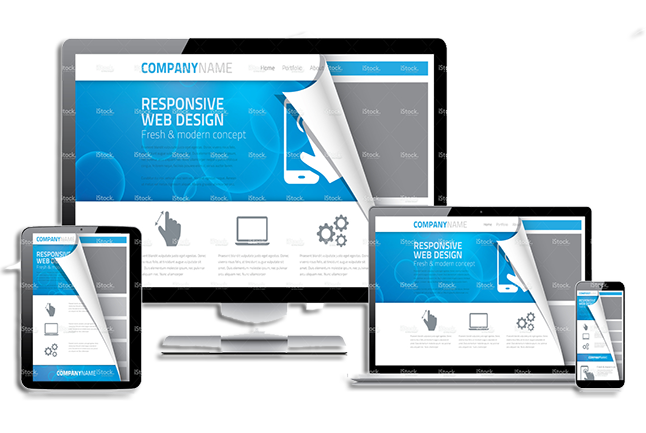
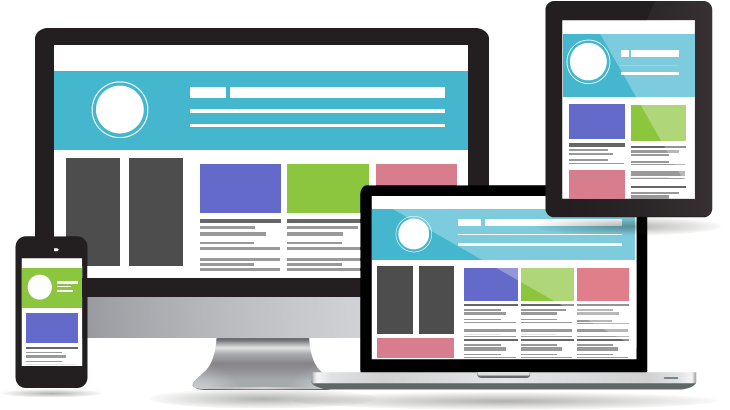
Home css

diff --git a/html/css/main.css b/html/css/main.css
@@ -787,6 +787,9 @@ input#ackapa:checked + nav li {
 .cont-art p strong {
   font-size: 1.2em;
 }
+.cont-art img {
+  padding-top: 15%;
+}
 /*para canvas*/
 .body--ready .overlay {
   -webkit-transition: -webkit-transform 0.7s cubic-bezier(0.694, 0.0482, 0.335, 1), opacity 0.7s cubic-bezier(0.694, 0.0482, 0.335, 1);
@@ -1146,6 +1149,9 @@ button {
   display: inline-block;
   margin-bottom: 4em;
 }
+.cont-buth a {
+  margin-left: 1.7em;
+}
 .bot-p {
   display: inline-block;
   vertical-align: middle;
@@ -1163,7 +1169,6 @@ button {
   cursor: pointer;
   text-decoration: none;
   font-size: 2em;
-  font-weight: 600;
   border-radius: .3em;
   -webkit-tap-highlight-color: rgba(0, 0, 0, 0);
   -webkit-transition: all 0.3s ease-in-out !important;
@@ -1456,7 +1461,6 @@ ul {
   margin-bottom: .8em;
   font-size: 3.5em;
   line-height: 1.1;
-  padding: 0 1em;
 }
 .sec-imp p {
   color: #fff;

diff --git a/html/css/home.less b/html/css/home.less
@@ -262,6 +262,9 @@
     font-size: 1.2em; 
   }
  }
+ img{
+  padding-top: 15%;
+ }
 }
 
 /*para canvas*/
@@ -670,5 +673,7 @@ button{outline: none !important;}
     margin-top: 4em;
     display: inline-block;
     margin-bottom: 4em;
-
+    a{
+      margin-left: 1.7em;
+    }
 }

diff --git a/html/css/button.less b/html/css/button.less
@@ -15,7 +15,6 @@
     cursor: pointer;
     text-decoration: none;
     font-size: 2em;
-    font-weight: 600;
     border-radius: .3em;
     -webkit-tap-highlight-color: rgba(0,0,0,0);
     -webkit-transition: all .3s ease-in-out !important;

diff --git a/html/css/pages.less b/html/css/pages.less
@@ -47,7 +47,6 @@
 		margin-bottom: .8em;
 		font-size: 3.5em;
 	    line-height: 1.1;
-        padding: 0 1em;
 	}
 	p{
 		color: #fff;

diff --git a/html/index.php b/html/index.php
@@ -28,7 +28,7 @@
                             </g>
                             <path d="M496 0c-273.952 0-496 222.048-496 496s222.048 496 496 496 496-222.048 496-496-222.048-496-496-496zM927.2 480h-191.872c-1.76-70.88-14.368-138.592-36.736-200.576 43.2-18.016 83.136-41.984 119.552-70.304 64.736 72.672 105.216 167.040 109.056 270.88zM478.304 927.104c-53.184-44.288-97.792-101.792-130.432-168.576 41.888-13.088 86.272-20.256 132.128-21.728v190.368c-0.576 0-1.12-0.032-1.696-0.064zM513.632 64.896c60.352 50.24 109.6 117.536 142.912 196.032-45.632 15.584-94.112 24.64-144.576 26.24v-222.368c0.608 0.032 1.12 0.064 1.664 0.096zM566.944 70.336c88.32 14.688 167.552 55.936 229.248 115.648-33.504 25.696-70.112 47.456-109.696 63.936-29.12-69.024-69.984-130.048-119.552-179.584zM480 64.8v222.368c-50.464-1.632-98.976-10.656-144.576-26.24 33.312-78.496 82.56-145.792 142.912-196.032 0.576-0.032 1.088-0.064 1.664-0.096zM305.472 249.952c-39.52-16.48-76.16-38.24-109.664-63.936 61.664-59.712 140.928-100.96 229.248-115.648-49.6 49.504-90.432 110.528-119.584 179.584zM323.36 290.432c49.344 17.12 101.92 27.104 156.64 28.768v160.8h-191.328c1.728-67.008 13.6-131.040 34.688-189.568zM480 512v192.8c-50.464 1.536-99.264 9.792-145.248 24.608-27.712-65.984-44.064-139.488-46.080-217.408h191.328zM425.056 921.664c-79.136-13.152-151.008-47.616-209.44-97.664 31.52-21.856 65.6-40.352 102.016-54.4 27.904 57.856 64.416 109.216 107.424 152.064zM512 927.2v-190.368c45.824 1.472 90.24 8.64 132.128 21.728-32.672 66.784-77.248 124.288-130.432 168.576-0.544 0-1.12 0.032-1.696 0.064zM674.368 769.6c36.384 14.048 70.432 32.576 102.016 54.4-58.432 50.016-130.304 84.512-209.44 97.664 43.008-42.848 79.488-94.208 107.424-152.064zM657.248 729.408c-46.016-14.816-94.816-23.072-145.248-24.608v-192.8h191.328c-2.016 77.92-18.4 151.424-46.080 217.408zM512 480v-160.8c54.688-1.664 107.264-11.616 156.64-28.736 21.056 58.528 32.928 122.56 34.688 189.568h-191.328zM173.888 209.12c36.416 28.32 76.352 52.288 119.52 70.304-22.368 61.984-34.976 129.696-36.736 200.576h-191.872c3.84-103.84 44.32-198.208 109.088-270.88zM64.8 512h191.872c1.984 81.76 19.072 158.976 48.096 228.384-40.544 15.808-78.336 36.864-113.216 61.792-75.136-74.784-122.56-177.024-126.752-290.176zM800.448 802.144c-34.88-24.896-72.672-45.984-113.248-61.792 29.056-69.408 46.112-146.624 48.128-228.384h191.872c-4.192 113.184-51.648 215.424-126.752 290.176z"></path>
                             </svg>
-                            <p>Enfocamos el desarrollo para el éxito en tus ventas.</p>
+                            <p>Enfocamos el desarrollo para el éxito en tus <b>ventas.</b></p>
                         </div>  
                         <div class="link-butt view-serv"><span>Más sobre desarrollo web</span></div>  
                     </a>
@@ -41,7 +41,7 @@
                             </g>
                             <path d="M0 416h512v64h-512zM64 288h64v96h-64zM160 160h64v224h-64zM256 256h64v128h-64zM352 64h64v320h-64z"></path>
                             </svg>
-                            <p>Campañas en internet rentables, Google y Facebook.</p>
+                            <p>Campañas en internet <b>rentables</b>, Google y Facebook.</p>
                         </div>  
                         <div class="link-butt view-serv"><span>Más sobre marketing digital</span></div>  
                     </a>
@@ -54,7 +54,7 @@
                             </g>
                             <path d="M0 32v320h512v-320h-512zM480 320h-448v-256h448v256zM336 384h-160l-16 64-32 32h256l-32-32z"></path>
                             </svg>
-                            <p>Gestión de procesos para empresas. Startups</p>
+                            <p>Gestión de empresas para <b>agilizar</b> tus procesos. Startups.</p>
                         </div>  
                         <div class="link-butt view-serv"><span>Más sobre desarrollo de plataformas</span></div>  
                     </a>
@@ -69,7 +69,7 @@
                             <path d="M224 144l-48-48-160 160 160 160 48-48-112-112z"></path>
                             <path d="M350.649 75.26l34.734 9.472-95.993 352.013-34.734-9.472 95.994-352.013z"></path>
                             </svg>
-                            <p>Si tienes un diseño, maquetado de psd a html.</p>
+                            <p>Si tienes un diseño, <b>maquetado</b> de psd a html.</p>
                         </div>  
                         <div class="link-butt view-serv"><span>Más sobre trabajos psd2html</span></div>  
                     </a>
@@ -88,9 +88,9 @@
                     <div class="cont-art">
                         <div class="small-12 medium-8 large-7 columns">
                             <h2>Desarrollo web</h2>
-                            <p><strong>Desarrollo de Landing Pages: </strong>Te ofrecemos desarrollar páginas web <strong>Vendedoras</strong>, de esta manera podrás contactarte con tus clientes.</p>
-                            <p><strong>Desarrollo de Tiendas Virtuales: </strong>Desarrollamos tiendas virtuales optimizadas para los busadores.</p>
-                            <p><strong>Desarrollo de Sitios Web: </strong>Nibh euismod tincidunt ut laoreet dolore magna aliquam erat volutpat. Ut wisi enim ad minim veniam.</p>
+                            <p><strong>Desarrollo de Landing Pages: </strong>Te ofrecemos desarrollar páginas web <strong>Vendedoras</strong>, cuyo objetivo es lograr que el visitante envíe su información y de esta manera poder contactarte con él.</p>
+                            <p><strong>Desarrollo de Tiendas Virtuales: </strong>Desarrollamos tiendas virtuales optimizadas para los buscadores.</p>
+                            <p><strong>Desarrollo de Sitios Web: </strong>Diseño y desarrollo haciendo uso de técnicas creativas e innovadoras, para dar una imagen profesional, teniendo en cuenta aspectos de navegación, usabilidad, posicionamiento y seguridad.</p>
                             <div class="cont-buth">    
                                 <a href="desarrollo-web.php" class="bot-p bot-blanco" title="">Saber más de desarrollo web</a>            
                             </div>
@@ -104,14 +104,14 @@
                     <div class="cont-art">
                         <div class="small-12 medium-8 large-7 columns">
                             <h2>Marketing digital</h2>
-                            <p><strong>Campañas de facebook: </strong> Desarrollamos campañas </p>
-                            <p><strong>Campañas de google adwords: </strong> Desarrollamos campañas</p>
+                            <p><strong>Campañas en Google Adwords: </strong> Utilizamos técnicas que hacen que tu página web aparezca en las primeras posiciones de los resultados en buscadores de Google. </p>
+                            <p><strong>Campañas en Facebook: </strong> Impulsar campañas publicitarias y promociones, promocionar tu marca, captar visitantes a tu página web. Podrás llegar a miles de clientes específicos y de esta manera mejorar tus ventas o hacer conocer tu marca.</p>
                             <div class="cont-buth">    
                                 <a href="#" class="bot-p bot-blanco" title="">Saber más de marketing digital</a>            
                             </div>
                         </div>  
                         <div class="small-12 medium-4 large-5 columns">
-                            <img src="img/home/web-design.png" title="Desarrollo web">    
+                            <img src="img/home/seo.png" title="Desarrollo web">    
                         </div>   
                     </div>
                 </article>
@@ -119,29 +119,29 @@
                     <div class="cont-art">
                         <div class="small-12 medium-8 large-7 columns">
                             <h2>Desarrollo de plataformas</h2>
-                            <p><strong>Gestión de procesos: </strong> Programación a medida</p>
-                            <p><strong>Programación de Startups: </strong></p>
-                            <p><strong>Programación de aplicaciones full stack:</strong></p>
+                            <p><strong>Gestión de Procesos:</strong> Te ofrecemos el desarrollo a medida de soluciones integradas según tu necesidad y la de tu empresa. Analizamos tu empresa y te aconsejamos dando las soluciones que necesites.</p>
+                            <p><strong>Programación de Startups:</strong> Tienes una idea y quieres implementarla, estamos para ayudarte y asesorarte.</p>
+                            <p><strong>Programación Full Stack:</strong> Back-end y Front-end. </p>
                             <div class="cont-buth">    
                                 <a href="#" class="bot-p bot-blanco" title="">Saber más de desarrollo de plataformas</a>            
                             </div>
                         </div>    
                         <div class="small-12 medium-4 large-5 columns">
-                            <img src="img/home/web-design.png" title="Desarrollo web">    
+                            <img src="img/home/plataformas.png" title="Desarrollo web">    
                         </div>  
                     </div>
                 </article>
                 <article>
                     <div class="cont-art">
                         <div class="small-12 medium-8 large-7 columns">
-                            <h2>Trabajos psd2thml</h2>
-                            <p><strong>Maquetación</strong>: Si tienes un diseño en psd, trabajamos la maquetación.</p>
+                            <h2>Trabajos psd2html</h2>
+                            <p><strong>Maquetación</strong>: Si tienes un diseño en psd, trabajamos la maquetación en html5. Desarrollamos el código de acuerdo a tu requerimientos. Con CSS3, Jvascript, Bootstrap, Foundation, Less, Stylus, etc. </p>
                             <div class="cont-buth">    
                                 <a href="#" class="bot-p bot-blanco" title="">Saber más de trabajos psd2html</a>            
                             </div>
                         </div>
                         <div class="small-12 medium-4 large-5 columns">
-                            <img src="img/home/web-design.png" title="Desarrollo web">    
+                            <img src="img/home/html.png" title="Desarrollo web">    
                         </div>      
                     </div>
                 </article>

diff --git a/html/desarrollo-web.php b/html/desarrollo-web.php
@@ -87,9 +87,10 @@
 					</g>
 					<path d="M64 448h448v64h-512v-512h64zM144 416c-26.51 0-48-21.49-48-48s21.49-48 48-48c1.414 0 2.811 0.074 4.194 0.193l51.596-85.993c-4.92-7.535-7.79-16.531-7.79-26.201 0-26.51 21.49-48 48-48s48 21.49 48 48c0 9.671-2.87 18.666-7.79 26.201l51.596 85.993c1.383-0.119 2.78-0.193 4.194-0.193 1.068 0 2.124 0.047 3.175 0.115l85.178-149.061c-5.268-7.704-8.353-17.018-8.353-27.055 0-26.51 21.49-48 48-48s48 21.49 48 48c0 26.51-21.49 48-48 48-1.070 0-2.124-0.047-3.175-0.116l-85.178 149.062c5.268 7.703 8.353 17.018 8.353 27.055 0 26.51-21.49 48-48 48s-48-21.49-48-48c0-9.67 2.87-18.666 7.789-26.201l-51.595-85.992c-1.383 0.119-2.78 0.193-4.194 0.193s-2.811-0.073-4.194-0.193l-51.596 85.993c4.92 7.534 7.79 16.53 7.79 26.2 0 26.51-21.49 48-48 48z"></path>
 				</svg>
-				<h2>Desarrollo de landings</h2>
-				<p>Crea páginas de aterrizaje dinámicas y optimizadas para captar leads</p>
-				<p>Lorem ipsum dolor sit amet, consectetuer adipiscing elit, sed diam nonummy nibh euismod tincidunt ut laoreet dolore magna aliquam erat volutpat.</p>
+				<h2>Landing Pages</h2>
+				<p>Son páginas que están optimizadas y preparadas para impulsar o facilitar una acción al usuario, esta acción puede ser registrarse o hacer una consulta sobre un producto mediante un formulario.</p>
+				<p>Se utilizan para hacer campañas de publicidad, cuando se quiere conseguir un objetivo específico y un retorno cuantitativo para una acción promocional.</p>
+				<a class="bot-p bot-blanco" href="#consulta">Consulta ahora</a>
 			</div>
 		</div>
 		<div class="small-12 large-4 columns">
@@ -101,8 +102,10 @@
 					<path d="M512 464c0 26.51-21.49 48-48 48s-48-21.49-48-48c0-26.51 21.49-48 48-48s48 21.49 48 48z"></path>
 					<path d="M512 256v-192h-384c0-17.673-14.327-32-32-32h-96v32h64l24.037 206.027c-14.647 11.729-24.037 29.75-24.037 49.973 0 35.348 28.654 64 64 64h384v-32h-384c-17.673 0-32-14.327-32-32 0-0.109 0.007-0.218 0.008-0.328l415.992-63.672z"></path>
 				</svg>				
-				<h2>Tiendas virtuales</h2>
-				<p>Lorem ipsum dolor sit amet, consectetuer adipiscing elit, sed diam nonummy consectetuer adipiscing elit, sed diam nonummy nibh euismod tincidunt ut laoreet dolore magna aliquam erat volutpat.</p>
+				<h2>Tiendas Virtuales</h2>
+				<p>También llamada Tienda Online, se refiere al comercio convencional usando como medio un Sitio Web para realizar compras y ventas de productos y servicios por Internet.</p>
+				<p>Desarrollamos las tiendas optimizadas para buscadores y adaptadas para dispositivos móviles, utilizando las últimas tecnologías que garantizan un funcionamiento estable y eficaz.</p>
+				<a class="bot-p bot-blanco" href="#consulta">Consulta ahora</a>
 			</div>
 		</div>
 		<div class="small-12 large-4 columns">
@@ -112,8 +115,9 @@
 				</g>
 				<path d="M0 512h256v-512h-256v512zM160 64h64v64h-64v-64zM160 192h64v64h-64v-64zM160 320h64v64h-64v-64zM32 64h64v64h-64v-64zM32 192h64v64h-64v-64zM32 320h64v64h-64v-64zM288 160h224v32h-224zM288 512h64v-128h96v128h64v-288h-224z"></path>
 			</svg>				
-				<h2>Sitios corporativos</h2>
+				<h2>Sitios Corporativos</h2>
 				<p>Lorem ipsum dolor sit amet, consectetuer adipiscing elit, sed diam nonummy nibh euismod tincidunt ut laoreet dolore magna aliquam erat volutpat.</p>
+				<a class="bot-p bot-blanco" href="#consulta">Consulta ahora</a>
 			</div>
 		</div>
 	</div>
@@ -351,7 +355,7 @@
     <!--img class="img-bann3" src="img/ground5.png"-->
 </section>
 
-<section class="row backblue sec-info">
+<section id="consulta" class="row backblue sec-info">
 	<div class="col-container">
 		<div class="titH2 wow slideInDown">
 			<h2><b>Solicita</b> información</h2>
